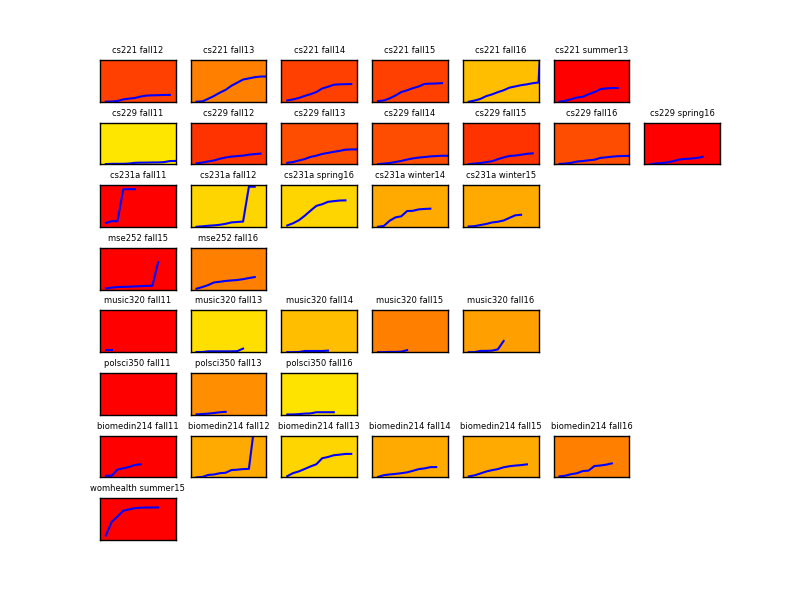
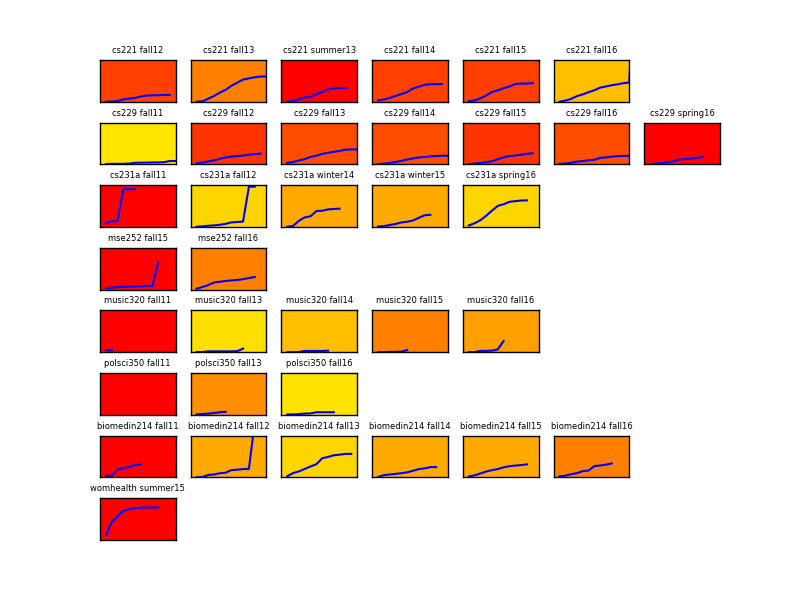
Corrected order of course offerings everywhere

diff --git a/src/main.py b/src/main.py
@@ -28,7 +28,7 @@ def main(getStats = False, combine = False, changePoint = False):
     tasks = []
     for c in COURSES:
         for root, dirs, files in os.walk(DATA_DIRECTORY+c+'/'):
-            for course_dir in dirs:
+            for course_dir in sorted(dirs,key=lambda d:d[-2:]):
                 tasks.append({'input':root+course_dir+'/','db_name':c+course_dir})
     bar = progressbar.ProgressBar(maxval=len(tasks), \
     widgets=[progressbar.Bar('=', '[', ']'), ' ', progressbar.Percentage()])
@@ -46,7 +46,7 @@ def main(getStats = False, combine = False, changePoint = False):
         # path = DATA_DIRECTORY+course
         
         # for root, dirs, files in os.walk(path):
-        #     for course_dir in dirs:
+        #     for course_dir in sorted(dirs,key=lambda d:d[-2:]):
         #         convertToEdgeList(root+'/'+course_dir,course+course_dir,True)
         
         if getStats: 
@@ -56,7 +56,7 @@ def main(getStats = False, combine = False, changePoint = False):
         if changePoint:
             stats_path = '../stats/'+course
             for root, dirs, files in os.walk(stats_path):
-                for course_dir in dirs:
+                for course_dir in sorted(dirs,key=lambda d:d[-2:]):
                     print root + '/' + course_dir
                     file = root + '/' + course_dir + '/top_statistics_student.csv'
                     reader = csv.DictReader(open(file,'r'))

diff --git a/src/small_multiples.py b/src/small_multiples.py
@@ -52,7 +52,7 @@ class smallMultiples:
       flattened_y = []
 
       for root, dirs, files in os.walk('../stats/'+course+'/'):
-        for course_dir in dirs:
+        for course_dir in sorted(dirs,key=lambda d:d[-2:]):
             #print course_dir
             top_student_statistics = root + course_dir + '/top_statistics_student.csv'
             f_top_students = open(top_student_statistics,'r')
@@ -78,7 +78,7 @@ class smallMultiples:
       color_map = {flattened_y[i]:normalized_y[i] for i in range(len(flattened_y))}
       sorted_map = sorted(color_map.items(), key=operator.itemgetter(1))
       sorted_map = [(elem[0],(1,elem[1],0))  for elem in sorted_map]
-      print sorted_map
+      #print sorted_map
       return all_x,all_y,names,normalized_y,flattened_y
 
 
@@ -95,7 +95,6 @@ class smallMultiples:
           #   patches.append(mpatches.Patch(color=rgb[i], label=course+'->'+str(flattened_y[i])))
           # plt.legend(handles=patches)
           # print flattened_y, ' : ',rgb
-
 
           for i in range(len(all_x)):
               x = all_x[i]
@@ -127,4 +126,4 @@ class smallMultiples:
 
 if __name__ == "__main__":
   sm  = smallMultiples(8,7)
-  sm.plot('Pagerank')
+  sm.plot('Weighted Out Degree')

diff --git a/src/graph.py b/src/graph.py
@@ -138,7 +138,7 @@ def stats(course,divide=False,all_stats=False):
         writer_all.writeheader()
 
     for root, dirs, files in os.walk(DATA_DIRECTORY+course+'/'):
-        for course_dir in dirs:
+        for course_dir in sorted(dirs,key=lambda d:d[-2:]):
             fieldnames = ['Course','Nodes', 'Edges','Avg In Degree','Avg Out Degree','Avg Degree','Avg Weighted Degree', 'Density', 'Largest Strongly Connected Component','Largest Weakly Connected Component', 'Average Betweenness Centrality', 'Average Closeness Centrality', 'Average Degree Centrality', 'Average Eigenvector Centrality', 'Average Clustering Coefficient', 'Average Hub Score', 'Average Authority Score', 'Max Pagerank']
             writer = csv.DictWriter(f_out, fieldnames=fieldnames)
             writer.writeheader()
